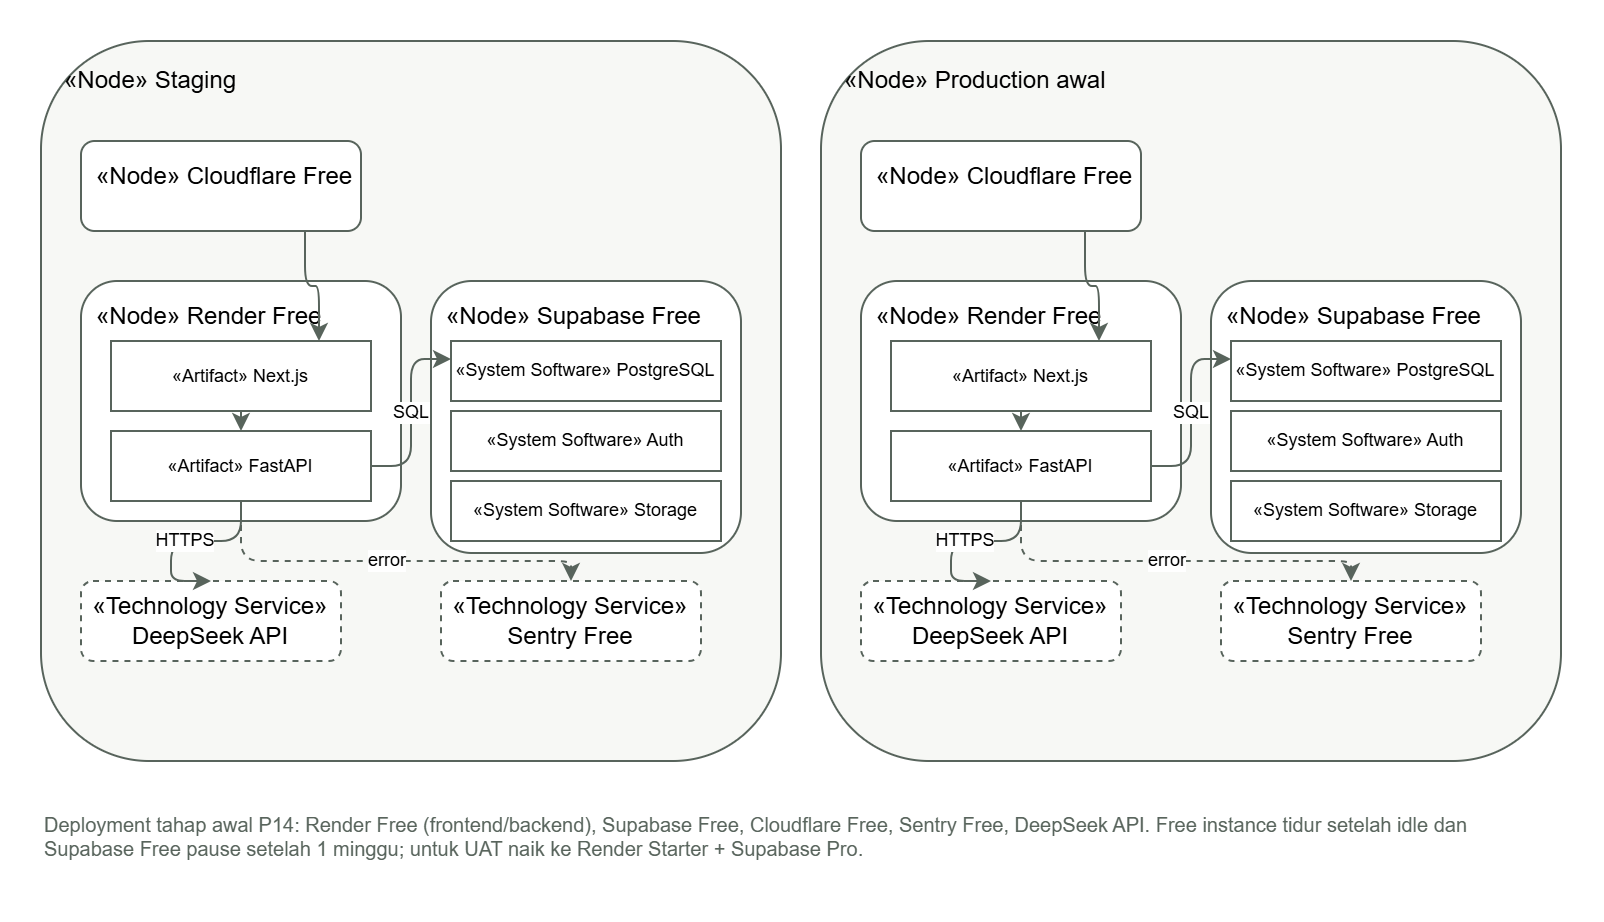
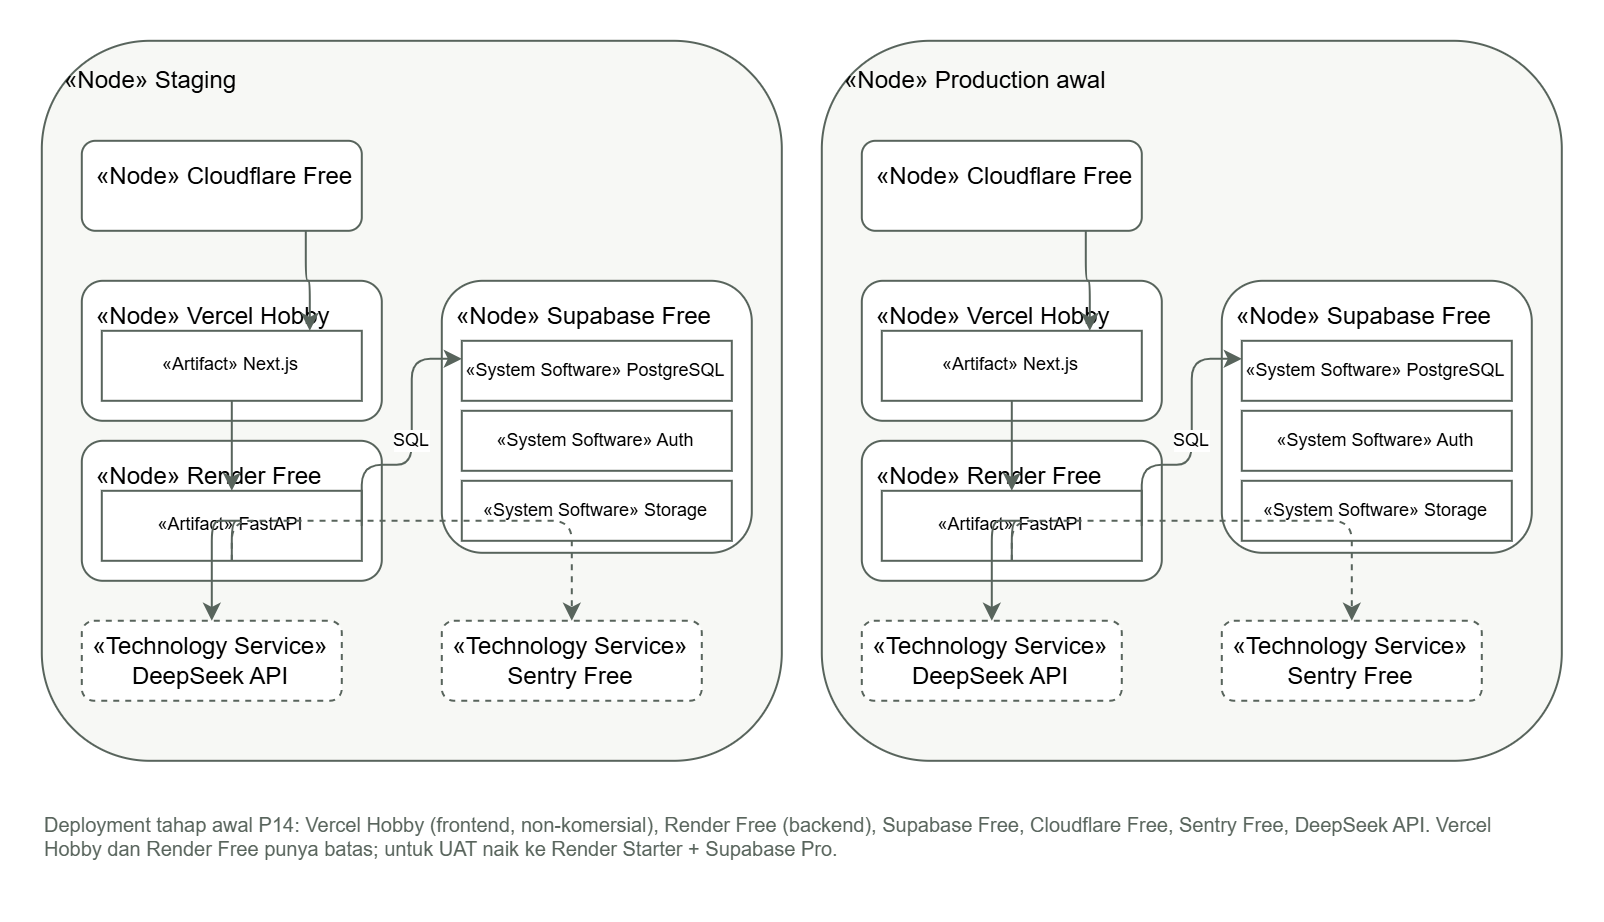
[P13] Pindahkan frontend ke Vercel Hobby

diff --git a/04_Technology/P13-Hosting-Options.md b/04_Technology/P13-Hosting-Options.md
@@ -11,14 +11,14 @@ Tahap awal memakai stack gratis/hemat:
 
 | Komponen | Pilihan awal | Biaya |
 |---|---|---:|
-| Frontend Next.js | Render Free | 0 dolar AS |
+| Frontend Next.js | Vercel Hobby | 0 dolar AS |
 | Backend FastAPI | Render Free | 0 dolar AS |
 | Database, Auth, Storage | Supabase Free | 0 dolar AS |
 | DNS dan TLS | Cloudflare Free | 0 dolar AS |
 | Error monitoring | Sentry Free | 0 dolar AS |
 | Model AI | DeepSeek API `deepseek-flash` | Bayar per token |
 
-Vercel Hobby tidak dipakai karena paket Hobby dibatasi untuk penggunaan personal/non-komersial. Growpath disiapkan sebagai produk, jadi jangan bergantung pada Vercel Hobby.
+Vercel Hobby dipakai karena proyek ini akademik dan non-komersial. Jangan memonetisasi aplikasi selama masih di Hobby. Kalau nanti dikomersialkan, pindah ke Vercel Pro.
 
 ## 2. Dua opsi biaya
 
@@ -26,8 +26,8 @@ Vercel Hobby tidak dipakai karena paket Hobby dibatasi untuk penggunaan personal
 
 | Layanan | Paket | Biaya |
 |---|---|---:|
-| Render web service frontend | Free | 0 |
-| Render web service backend | Free | 0 |
+| Vercel frontend | Hobby | 0 |
+| Render backend | Free | 0 |
 | Supabase | Free | 0 |
 | Cloudflare | Free | 0 |
 | Sentry | Free | 0 |
@@ -35,6 +35,8 @@ Vercel Hobby tidak dipakai karena paket Hobby dibatasi untuk penggunaan personal
 
 Konsekuensi:
 
+- Vercel Hobby hanya untuk penggunaan personal/non-komersial. Proyek akademik ini memenuhi syarat selama tidak dimonetisasi.
+- Vercel Hobby memiliki batas bandwidth, build, dan function invocation.
 - Render Free tidur setelah 15 menit tanpa traffic dan butuh sekitar 1 menit untuk bangun.
 - Render Free memberi 750 instance hours per workspace per bulan.
 - Supabase Free berhenti setelah 1 minggu tanpa aktivitas.
@@ -47,21 +49,22 @@ Konsekuensi:
 
 | Layanan | Paket | Biaya |
 |---|---|---:|
-| Render frontend | Starter | 7 dolar AS |
+| Vercel frontend | Hobby | 0 |
 | Render backend | Starter | 7 dolar AS |
 | Supabase | Pro | 25 dolar AS |
 | Cloudflare | Free | 0 |
 | Sentry | Free | 0 |
 | DeepSeek API | Pay as you go | Sekitar 0,0007 dolar AS per konsultasi |
 
-Perkiraan tetap: **39 dolar AS per bulan** sebelum biaya AI.
+Perkiraan tetap: **32 dolar AS per bulan** sebelum biaya AI.
 
 Kelebihan:
 
-- Render tidak tidur.
+- Render backend tidak tidur.
 - Supabase tidak pause.
 - Backup harian 7 hari.
 - Lebih aman untuk UAT dan demo.
+- Vercel Hobby tetap dipakai karena UAT akademik non-komersial. Kalau perlu Vercel Pro, tambah 20 dolar AS per bulan.
 
 ## 3. Biaya AI DeepSeek
 
@@ -102,14 +105,14 @@ Alternatif tanpa biaya AI: Gemini Free Tier. Namun ketentuan free tier dapat mem
 ```text
 Browser
   -> Cloudflare Free (DNS, TLS)
-  -> Render Free: Next.js
+  -> Vercel Hobby: Next.js
   -> Render Free: FastAPI
   -> Supabase Free: PostgreSQL, Auth, Storage
   -> DeepSeek API
   -> Sentry Free
 ```
 
-- Frontend dan backend berjalan sebagai dua web service Render.
+- Frontend berjalan di Vercel Hobby; backend di Render Free.
 - Supabase menyimpan data, auth, dan storage.
 - DeepSeek hanya dipanggil dari backend.
 - Service role key dan `DEEPSEEK_API_KEY` tidak masuk browser.
@@ -137,8 +140,9 @@ Naik ke Opsi 2 sebelum:
 ## 8. Checklist deploy
 
 - [ ] Buat dua proyek Supabase Free: development dan UAT.
-- [ ] Buat dua web service Render: frontend dan backend.
-- [ ] Isi env di Render, bukan di repo.
+- [ ] Buat proyek Vercel Hobby untuk frontend.
+- [ ] Buat web service Render untuk backend.
+- [ ] Isi env di Vercel/Render, bukan di repo.
 - [ ] Set `DEEPSEEK_API_KEY` hanya di backend.
 - [ ] Jalankan `08_Source/db/migrations/001_init.sql` dan `08_Source/db/seed/seed.sql`.
 - [ ] Aktifkan health check.
@@ -152,4 +156,4 @@ Naik ke Opsi 2 sebelum:
 - <https://render.com/docs/free>, diakses 23 November 2026.
 - <https://render.com/pricing>, diakses 23 November 2026.
 - <https://api-docs.deepseek.com/quick_start/pricing>, diakses 23 November 2026.
-- <https://vercel.com/docs/plans/hobby>, diakses 23 November 2026, untuk alasan tidak memakai Hobby.
+- <https://vercel.com/docs/plans/hobby>, diakses 23 November 2026, untuk batas Hobby non-komersial.

diff --git a/04_Technology/README.md b/04_Technology/README.md
@@ -14,4 +14,4 @@ Folder ini memuat arsitektur teknologi P13.
 
 Topologi as-is adalah versi generik: UMKM datang ke rumah binaan, mengisi formulir, data direkap lembaga, lalu konsultasi atau pelatihan on-site. Detail lokasi menyesuaikan setelah mitra dikonfirmasi.
 
-Teknologi utama: Cloudflare, Render, Supabase, DeepSeek API, dan Sentry. Region aplikasi dan data di Singapura.
+Teknologi utama: Cloudflare, Vercel Hobby, Render, Supabase, DeepSeek API, dan Sentry. Region aplikasi dan data di Singapura.
